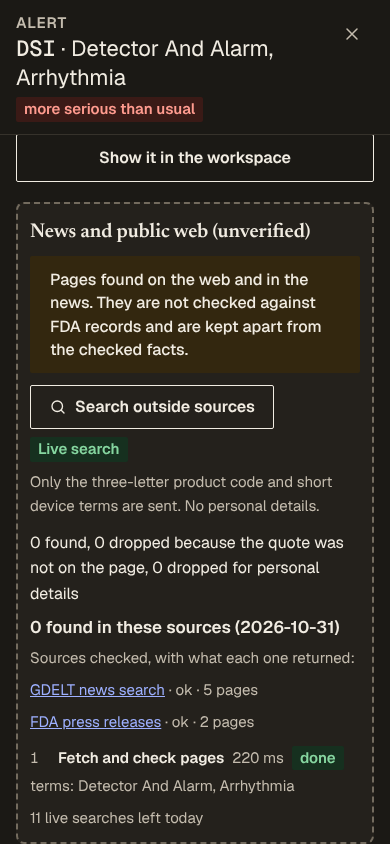
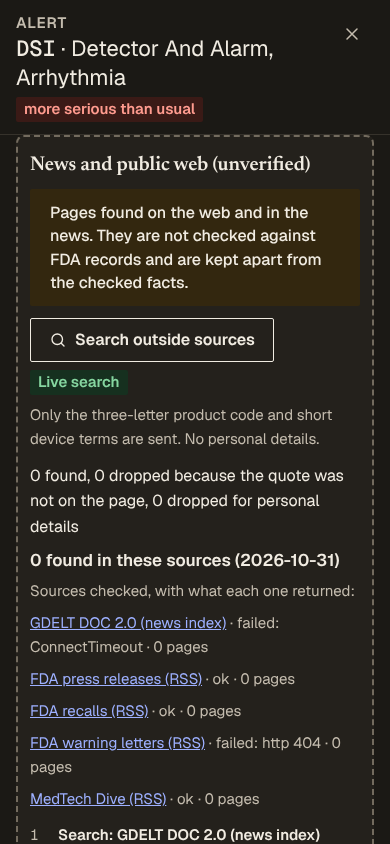
Mentions: hide MassDevice steps, show failed trace steps as failed, carry submitted line in HACKATHON.md
Claude-Session: https://claude.ai/code/session_01SawpACqLLsGWXrK6TBXRho

diff --git a/web/src/alertPanel.test.tsx b/web/src/alertPanel.test.tsx
@@ -9,6 +9,7 @@ import { ConnectView } from './components/ConnectView'
 import { MentionsBox } from './components/MentionsBox'
 import { parseMentions, zeroLine, statusLabel } from './mentions'
 import alerts from '../public/data/alerts.json'
+import publicMentions from '../public/data/mentions.json'
 
 ;(globalThis as { IS_REACT_ACT_ENVIRONMENT?: boolean }).IS_REACT_ACT_ENVIRONMENT = true
 
@@ -178,6 +179,35 @@ describe('MentionsBox', () => {
     expect(host.textContent).not.toMatch(/massdevice/i)
     expect(host.textContent).not.toContain('Nothing was kept')
     expect(host.querySelectorAll('[data-testid=mention]')).toHaveLength(0)
+  })
+  it('the shipped LLZ record: no MassDevice anywhere (sources and steps), failed steps read failed', () => {
+    const llz = parseMentions((publicMentions as unknown as { codes: Record<string, unknown> }).codes.LLZ)!
+    act(() => root.render(<MentionsBox code="LLZ" apiBase={null} stored={{ ...llz, mode: 'recorded' }} />))
+    expect(host.textContent).not.toMatch(/massdevice/i)
+    const steps = Array.from(host.querySelectorAll('[data-testid=trace-step]')).map((r) => r.textContent ?? '')
+    expect(steps.length).toBeGreaterThan(0)
+    const gdelt = steps.find((t) => t.includes('GDELT'))!
+    expect(gdelt).toContain('failed')
+    expect(gdelt).not.toContain('done')
+    const warn = steps.find((t) => t.includes('warning letters'))!
+    expect(warn).toContain('failed')
+    expect(warn).not.toContain('done')
+    expect(steps.find((t) => t.includes('recalls'))).toContain('done')
+  })
+  it('a "failed: ConnectTimeout" trace step is failed, a skipped one skipped, anything else ok', () => {
+    const r = parseMentions({
+      ...mentionsBody,
+      trace: [
+        { step: 'A', ms: 1, status: 'failed: ConnectTimeout' },
+        { step: 'B', ms: 1, status: 'skipped' },
+        { step: 'C', ms: 1, status: 'ok' },
+        { step: 'D', ms: 1, status: '0 page(s) tried' },
+        { step: 'Search: MassDevice (RSS)', ms: 1, status: 'ok' },
+      ],
+    })!
+    expect(r.trace.map((t) => t.step)).toEqual(['A', 'B', 'C', 'D'])
+    expect(r.trace.map((t) => t.status)).toEqual(['failed', 'skipped', 'ok', 'ok'])
+    expect(r.trace[0].note).toBe('failed: ConnectTimeout')
   })
   it('zeroLine and statusLabel handle missing data honestly', () => {
     expect(zeroLine('')).toBe('0 found in these sources (date not recorded)')

diff --git a/web/src/mentions.ts b/web/src/mentions.ts
@@ -129,15 +129,30 @@ function parseMention(v: unknown): Mention | 'personal' | null {
   }
 }
 
+const traceStatus = (raw: unknown): { status: LiveTraceStep['status']; note?: string } => {
+  const t = typeof raw === 'string' ? raw.trim() : ''
+  if (t === 'skipped') return { status: 'skipped' }
+  if (/^failed/i.test(t)) return { status: 'failed', note: t }
+  if (t === '' || t === 'ok') return { status: 'ok' }
+  return { status: 'ok', note: t } // a plain remark such as "0 page(s) tried"
+}
+
 const traceOf = (v: unknown): LiveTraceStep[] =>
   Array.isArray(v)
-    ? v.filter(isObj).map((s) => ({
-        step: String(s.step ?? ''),
-        model: typeof s.model === 'string' ? s.model : null,
-        ms: typeof s.ms === 'number' && Number.isFinite(s.ms) ? s.ms : 0,
-        status: s.status === 'skipped' || s.status === 'failed' ? s.status : 'ok',
-        ...(typeof s.note === 'string' ? { note: s.note } : {}),
-      }))
+    ? v
+        .filter(isObj)
+        .filter((s) => !isDropped(String(s.step ?? '')) && !isDropped(String(s.note ?? '')))
+        .map((s) => {
+          const st = traceStatus(s.status)
+          const note = st.note ?? (typeof s.note === 'string' ? s.note : undefined)
+          return {
+            step: String(s.step ?? ''),
+            model: typeof s.model === 'string' ? s.model : null,
+            ms: typeof s.ms === 'number' && Number.isFinite(s.ms) ? s.ms : 0,
+            status: st.status,
+            ...(note ? { note } : {}),
+          }
+        })
     : []
 
 /** A mentions answer (live or stored); null when it lacks the mentions list. Mentions the page cannot vouch for are dropped and counted. */

diff --git a/web/qa/live_stub.py b/web/qa/live_stub.py
@@ -450,38 +450,41 @@ class Stub:
                 },
             ]
         )
+        if empty:  # the real recorded LLZ zero result: failed rows and a MassDevice row the page must not show
+            tried = [
+                {"name": "GDELT DOC 2.0 (news index)", "url": "https://api.gdeltproject.org/api/v2/doc/doc", "status": "failed: ConnectTimeout", "n": 0},
+                {"name": "FDA press releases (RSS)", "url": "https://www.fda.gov/about-fda/contact-fda/stay-informed/rss-feeds/press-releases/rss.xml", "status": "ok", "n": 0},
+                {"name": "FDA recalls (RSS)", "url": "https://www.fda.gov/about-fda/contact-fda/stay-informed/rss-feeds/recalls/rss.xml", "status": "ok", "n": 0},
+                {"name": "FDA warning letters (RSS)", "url": "https://www.fda.gov/about-fda/contact-fda/stay-informed/rss-feeds/warning-letters/rss.xml", "status": "failed: http 404", "n": 0},
+                {"name": "MedTech Dive (RSS)", "url": "https://www.medtechdive.com/feeds/news/", "status": "ok", "n": 0},
+                {"name": "MassDevice (RSS)", "url": "https://www.massdevice.com/feed/", "status": "failed: http 403", "n": 0},
+            ]
+            trace = [
+                {"step": "Search: GDELT DOC 2.0 (news index)", "model": None, "ms": 6031, "status": "failed: ConnectTimeout"},
+                {"step": "Search: FDA press releases (RSS)", "model": None, "ms": 277, "status": "ok"},
+                {"step": "Search: FDA recalls (RSS)", "model": None, "ms": 352, "status": "ok"},
+                {"step": "Search: FDA warning letters (RSS)", "model": None, "ms": 431, "status": "failed: http 404"},
+                {"step": "Search: MedTech Dive (RSS)", "model": None, "ms": 228, "status": "ok"},
+                {"step": "Search: MassDevice (RSS)", "model": None, "ms": 173, "status": "failed: http 403"},
+                {"step": "Fetch pages and check each quote against the page text", "model": None, "ms": 0, "status": "0 page(s) tried"},
+            ]
+        else:
+            tried = [
+                {"name": "GDELT news search", "url": "https://api.gdeltproject.org/api/v2/doc/doc", "status": "ok", "n": 5},
+                {"name": "FDA press releases", "url": "https://www.fda.gov/about-fda/contact-fda/stay-informed/rss-feeds/press-releases/rss.xml", "status": "ok", "n": 2},
+            ]
+            trace = [{"step": "Fetch and check pages", "model": None, "ms": 220, "status": "ok", "note": f"terms: {', '.join(terms) or 'none'}"}]
         return {
             "product_code": code,
             "searched_utc": "2026-10-31T12:00:00Z",
-            "sources_tried": [
-                {
-                    "name": "GDELT news search",
-                    "url": "https://api.gdeltproject.org/api/v2/doc/doc",
-                    "status": "ok",
-                    "n": 5,
-                },
-                {
-                    "name": "FDA press releases",
-                    "url": "https://www.fda.gov/about-fda/contact-fda/stay-informed/rss-feeds/press-releases/rss.xml",
-                    "status": "ok",
-                    "n": 2,
-                },
-            ],
+            "sources_tried": tried,
             "mentions": found,
             "dropped": {
                 "quote_not_found": 0 if empty else 2,
                 "personal_details": 0,
                 "off_topic": 0 if empty else 1,
             },
-            "trace": [
-                {
-                    "step": "Fetch and check pages",
-                    "model": None,
-                    "ms": 220,
-                    "status": "ok",
-                    "note": f"terms: {', '.join(terms) or 'none'}",
-                }
-            ],
+            "trace": trace,
             "limits": {"remaining_today": self.live_left, "resets_utc": "2026-11-01T00:00:00Z"},
             "mode": "live",
         }

diff --git a/web/qa/shoot_p.py b/web/qa/shoot_p.py
@@ -262,8 +262,11 @@ def main() -> int:
                 zero = page.get_by_test_id("mentions-zero-line").inner_text()
                 check(f"mentions zero {w} {scheme}: '0 found in these sources (date)', never an empty box", zero == "0 found in these sources (2026-10-31)" and page.get_by_test_id("mention").count() == 0, zero)
                 rows = page.get_by_test_id("source-row").all_inner_texts()
-                check(f"mentions zero {w} {scheme}: every source tried is listed with status and count", len(rows) == 2 and all("ok" in r and "page" in r for r in rows), rows)
-                check(f"mentions zero {w} {scheme}: no MassDevice text", "massdevice" not in page.get_by_test_id("mentions-box").inner_text().lower())
+                check(f"mentions zero {w} {scheme}: every source tried is listed with status and count", len(rows) == 5 and sum("failed: " in r for r in rows) == 2 and all("page" in r for r in rows), rows)
+                box_text = page.get_by_test_id("mentions-box").inner_text()
+                check(f"mentions zero {w} {scheme}: no MassDevice text (sources or steps)", "massdevice" not in box_text.lower())
+                steps = page.get_by_test_id("trace-step").all_inner_texts()
+                check(f"mentions zero {w} {scheme}: failed sources read failed in the steps too, never done", len(steps) == 6 and sum("failed" in t for t in steps) == 2 and not any(("GDELT" in t or "warning" in t) and "done" in t for t in steps), steps)
                 check(f"mentions zero {w} {scheme}: contrast", ratio(page, "[data-testid=mentions-zero-line]") >= 4.5, ratio(page, "[data-testid=mentions-zero-line]"))
                 page.get_by_test_id("mentions-box").scroll_into_view_if_needed()
                 snap(page, "mentions-zero", w, scheme, report)

diff --git a/HACKATHON.md b/HACKATHON.md
@@ -3,6 +3,7 @@
 **Event:** Meta Global AI Developer Hackathon (Oct 26 – Nov 4, 2026)
 **Track:** Indie Developer, solo
 **Problem statement:** Build for Your World
+**Muse connector:** Submitted to Meta's Muse Connector Program — pending review (submitted Oct 30). Not approved or listed. Read-only MCP + REST at `https://maudesignal-api.vercel.app/mcp`; form answers in `docs/hackathon/MUSE_CONNECTOR.md`.
 
 ## What was built DURING the hackathon (new work — this is the submission)
 
